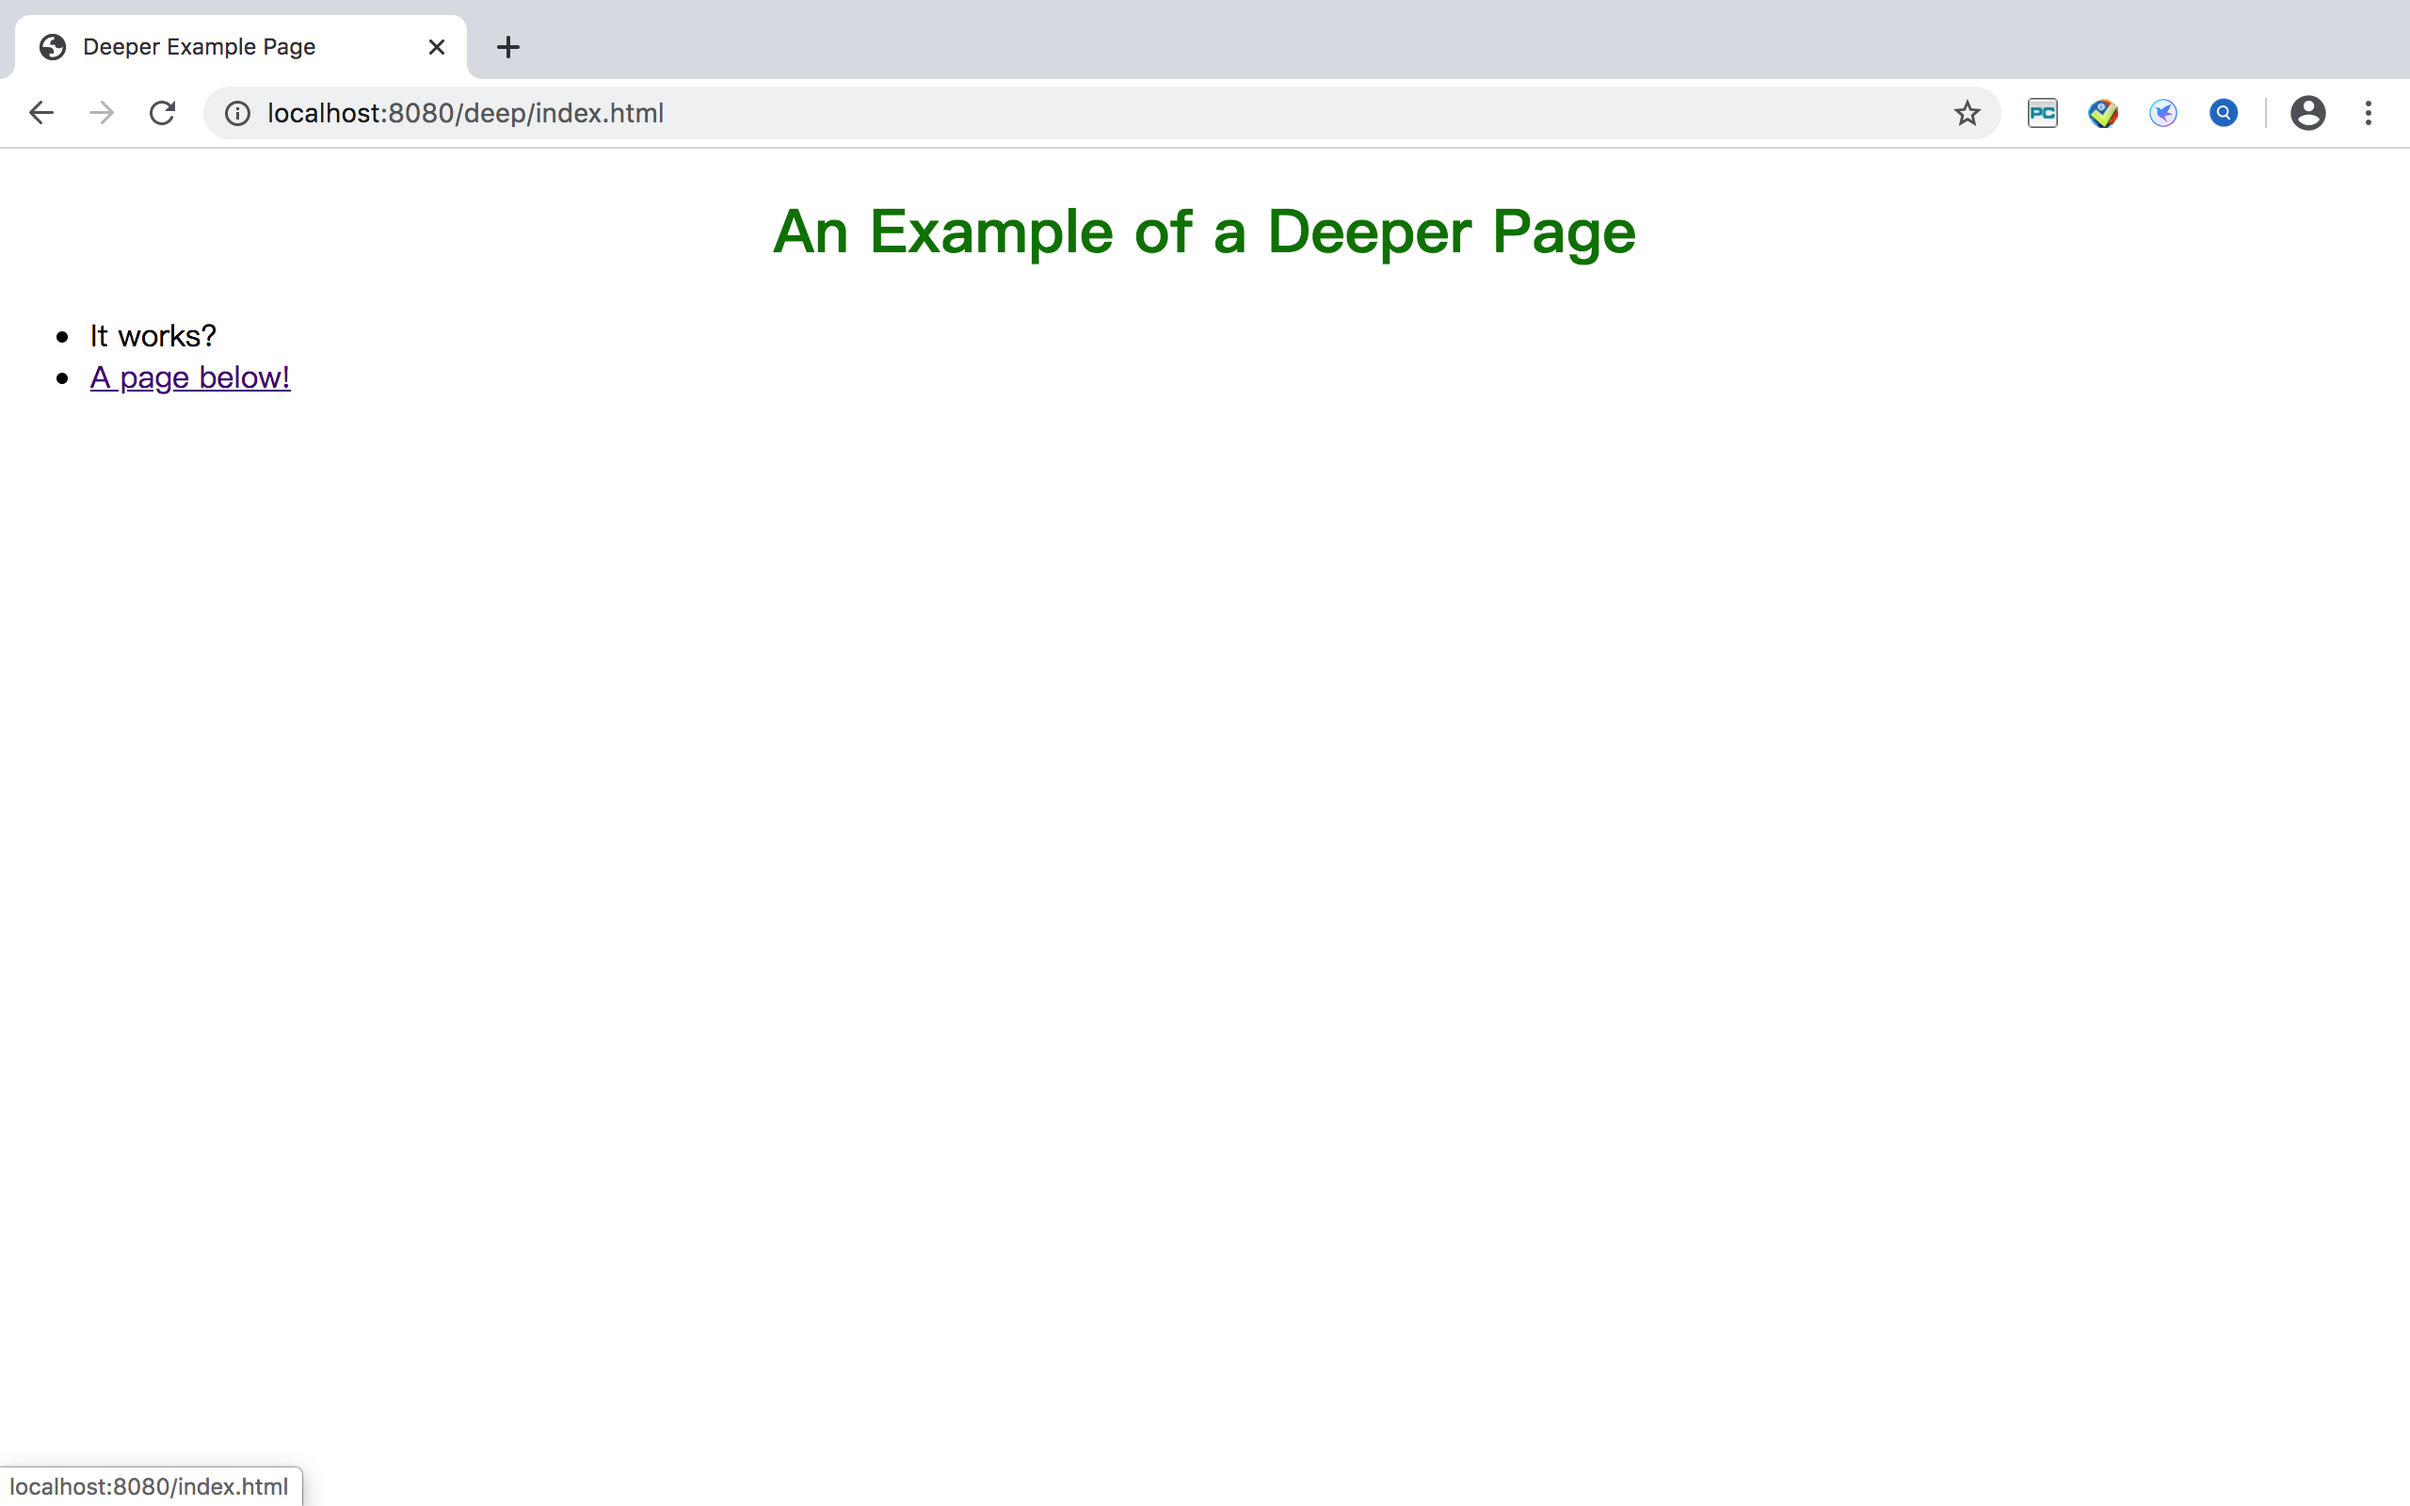
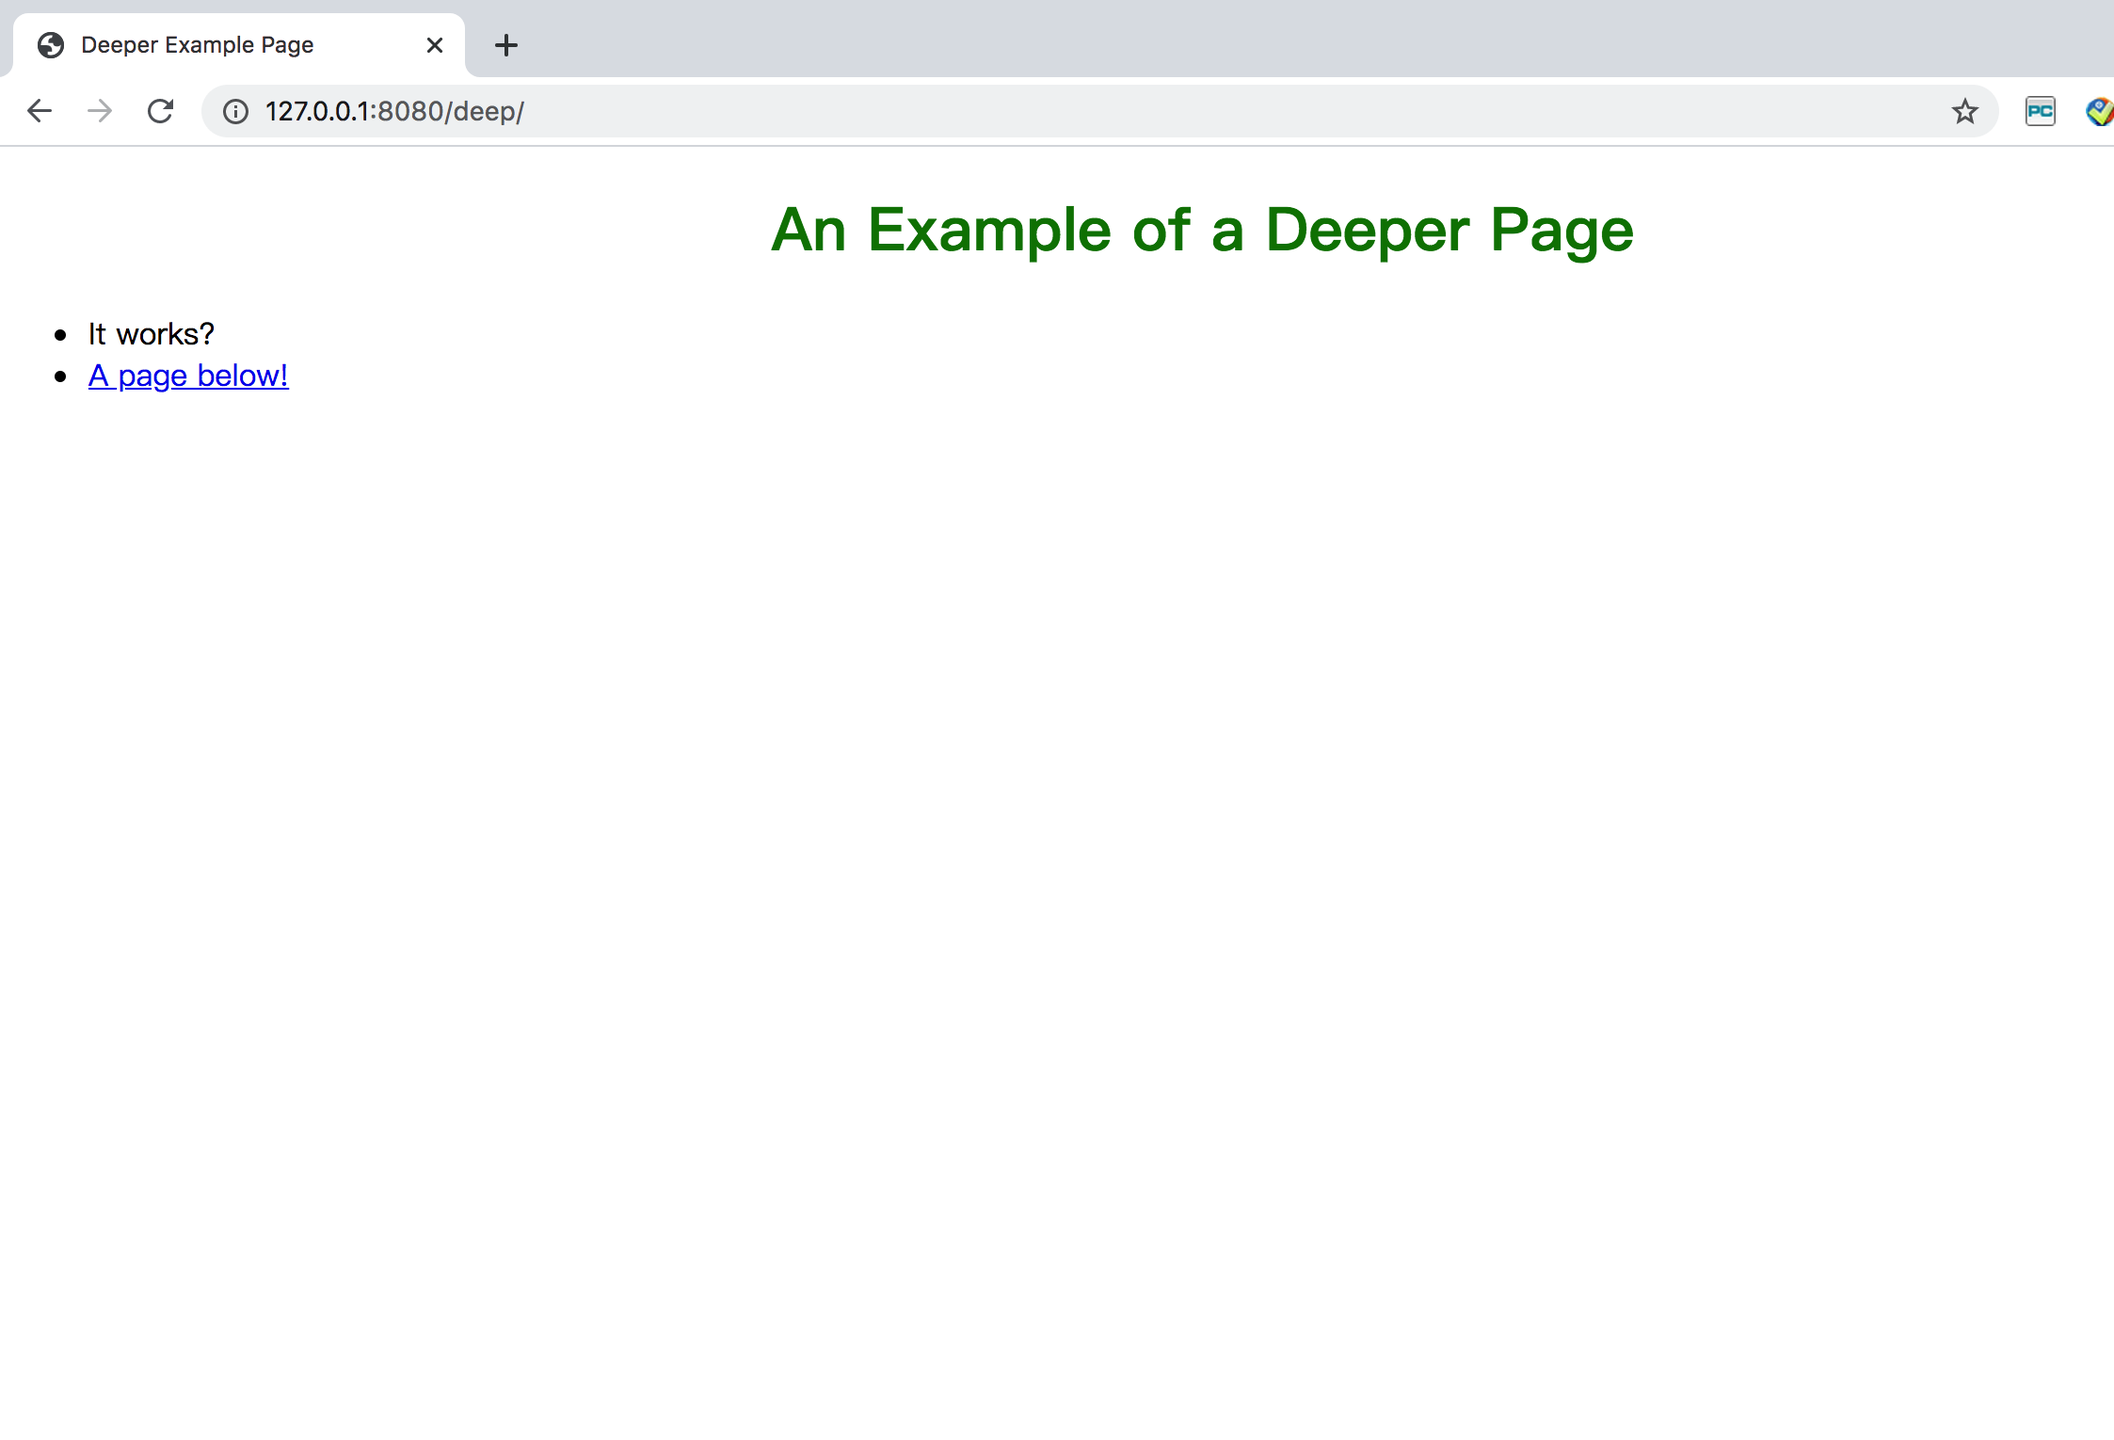
a1

diff --git a/server.py b/server.py
@@ -48,11 +48,10 @@ import time
 
 
 
-
 class MyWebServer(socketserver.BaseRequestHandler):
     alow_path = './www'
     res_dir = re.compile('GET (.*?) HTTP')
-
+    
     
     #recive requests
     def handle(self):
@@ -66,17 +65,12 @@ class MyWebServer(socketserver.BaseRequestHandler):
     def do_response(self,data):
         if data[:3] == b'GET':
             path = self.res_dir.findall(data.decode())[0]
-            print(path)
-            # result = b''
+            print("loading page:",self.alow_path+path)
+
             if path == '/':
-                path = '/index.html'
                 response = self.deal_respose_head("301")
-                # with open(self.alow_path+path,'rb') as f:
-                #     result = f.read().decode()
-                #     response += result
                 return response
             try:
-                print("loading page:",self.alow_path+path)
                 response = self.deal_respose_head("200")
                 response += self.deal_mime(path.split('.')[1])
                 response += "\r\n" 
@@ -87,15 +81,21 @@ class MyWebServer(socketserver.BaseRequestHandler):
             except:
                 if os.path.isdir(self.alow_path+path):
                     if path[-1] !='/':
-                        response_headers = "HTTP/1.1 {} Moved Permanently\r\n".format(300) 
-                        response_headers += "Location:http://localhost:8080/{}\r\n".format(path+'/')
+                        response_headers = "HTTP/1.1 {} Moved Permanently\r\n".format(301)  
+                        response_headers += "Location:http://127.0.0.1:8080{}\r\n".format(path+'/')
                         response_headers += "\r\n" 
                         return response_headers
                     else:
-                        response_headers = "HTTP/1.1 {} Moved Permanently\r\n".format(200) 
-                        # response_headers += "Location:http://localhost:8080/{}\r\n".format(path+'/')
+                        print("1231231321")
+                        response_headers = "HTTP/1.1 {} OK\r\n".format(200) 
+                        response_headers += "Location:http://127.0.0.1:8080/index.html\r\n".format(path+'/')
+                        
                         response_headers += self.deal_mime('html')
                         response_headers += "\r\n" 
+                        # response_headers += ''.join(html_text)
+                        with open('./www/deep/index.html','rb') as f:
+                            result = f.read().decode()
+                            response_headers += result
                         return response_headers
                 else:
                     response = self.deal_respose_head("404")
@@ -105,24 +105,25 @@ class MyWebServer(socketserver.BaseRequestHandler):
             response = self.deal_respose_head("405")
             response = response + "<h3>405 error, Method Not Allowed</h3>"
             return response
-            pass
             #405
 
 
+  
     def deal_respose_head(self,status_code):
         if status_code == '200':
-            response_headers = "HTTP/1.1 {} OK\r\n".format(status_code)
+            response_headers = "HTTP/1.1 {} OK\r\n".format(status_code) 
+           
             return response_headers
         if status_code == '301':
             response_headers = "HTTP/1.1 {} Moved Permanently\r\n".format(status_code) 
-            response_headers += "Location:http://localhost:8080/index.html\r\n"
+            response_headers += "Location:http://127.0.0.1:8080/index.html\r\n"
             response_headers += "\r\n" 
             return response_headers
         if status_code == '404':
             response_headers = "HTTP/1.1 {} Not Found\r\n".format(status_code) 
             return response_headers
         if status_code == "405":
-            response_headers = "HTTP/1.1 {} Method Not Allowed\r\n".format(status_code) 
+            response_headers = "HTTP/1.1 {} Method Not Allowed\r\n".format(status_code) # 200 表示找到这个资源
             return response_headers
 
     def deal_mime(self,kind):
@@ -140,10 +141,10 @@ class MyWebServer(socketserver.BaseRequestHandler):
 
 
 if __name__ == "__main__":
-    HOST, PORT = "localhost", 8080
+    HOST, PORT = "127.0.0.1", 8080
 
     socketserver.TCPServer.allow_reuse_address = True
-    # Create the server, binding to localhost on port 8080
+    # Create the server, binding to 127.0.0.1 on port 8080
     server = socketserver.TCPServer((HOST, PORT), MyWebServer)
 
     # Activate the server; this will keep running until you
